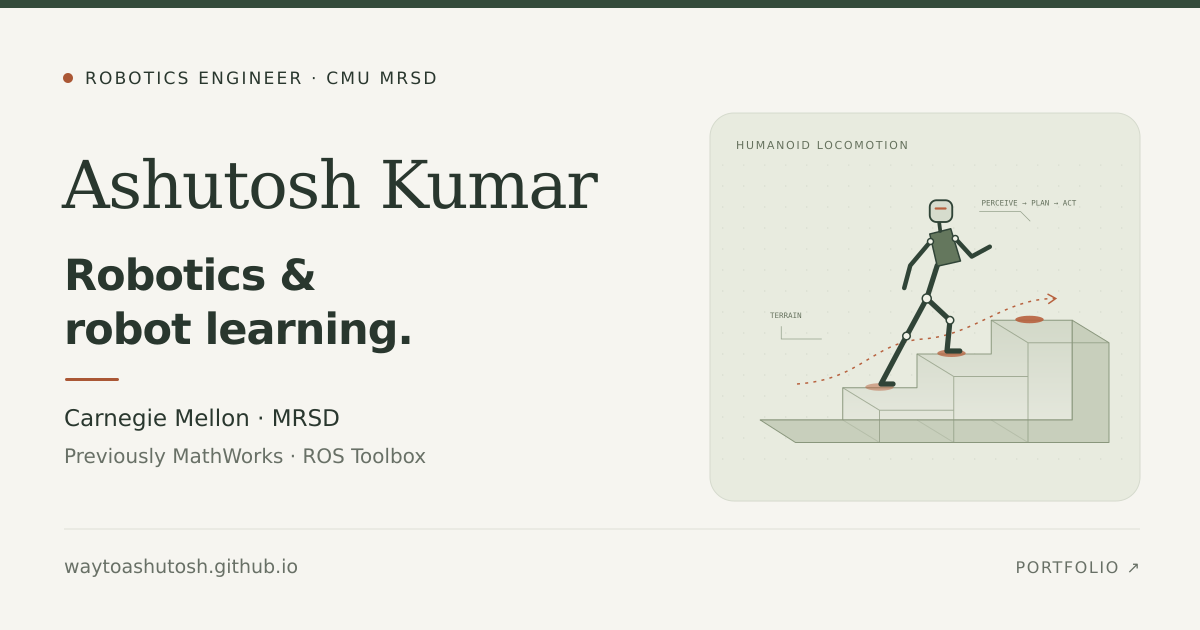
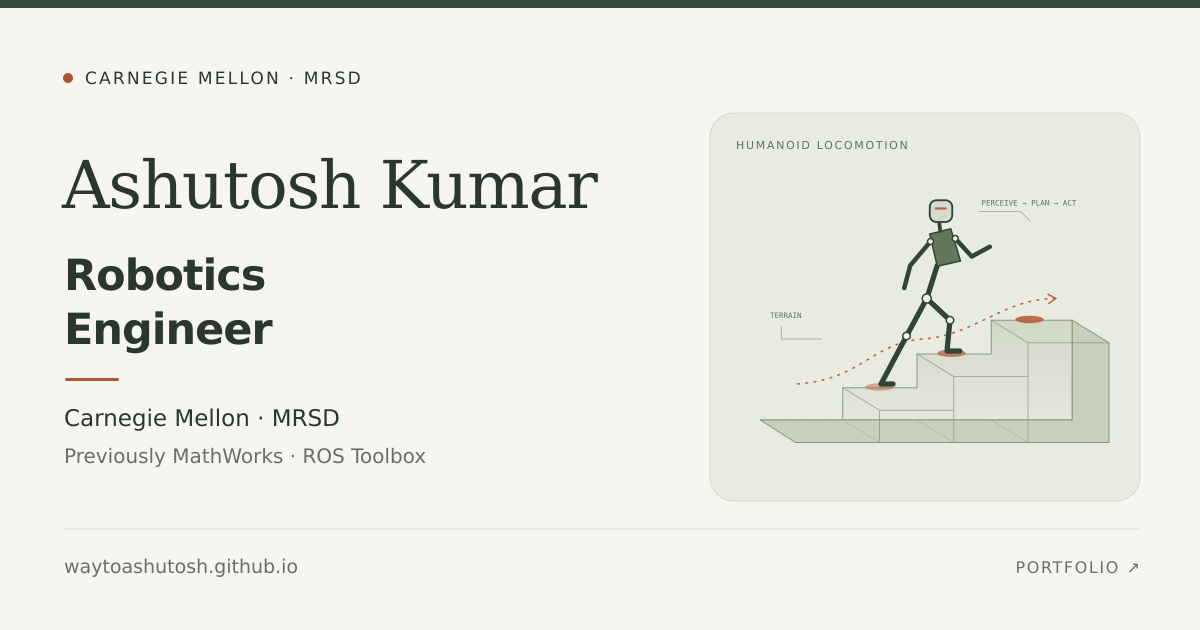
Use Robotics Engineer headline and matching sharing image

Changed region(s): [[0.0617, 0.4222, 0.3392, 0.573], [0.0617, 0.0905, 0.37, 0.1508]]

diff --git a/index.html b/index.html
@@ -5,24 +5,24 @@
   <meta name="viewport" content="width=device-width, initial-scale=1">
   <meta name="theme-color" content="#f6f5f0">
   <meta name="description" content="Ashutosh Kumar, robotics engineer and CMU MRSD student. Previously at MathWorks, working on ROS 2 tools and motion planning.">
-  <meta property="og:title" content="Ashutosh Kumar — Robotics & Robot Learning">
+  <meta property="og:title" content="Ashutosh Kumar — Robotics Engineer">
   <meta property="og:description" content="Robotics projects, public MathWorks contributions, and experience in ROS 2, robot learning, and motion planning.">
   <meta property="og:type" content="website">
   <meta property="og:url" content="https://waytoashutosh.github.io/">
   <meta property="og:site_name" content="Ashutosh Kumar — Portfolio">
-  <meta property="og:image" content="https://waytoashutosh.github.io/assets/social-preview.png?v=bbde8597d96b">
-  <meta property="og:image:secure_url" content="https://waytoashutosh.github.io/assets/social-preview.png?v=bbde8597d96b">
+  <meta property="og:image" content="https://waytoashutosh.github.io/assets/social-preview.png?v=fcdbb02fdbfe">
+  <meta property="og:image:secure_url" content="https://waytoashutosh.github.io/assets/social-preview.png?v=fcdbb02fdbfe">
   <meta property="og:image:type" content="image/png">
   <meta property="og:image:width" content="1200">
   <meta property="og:image:height" content="630">
-  <meta property="og:image:alt" content="Ashutosh Kumar — Robotics and Robot Learning. CMU MRSD; previously MathWorks. Humanoid staircase illustration.">
+  <meta property="og:image:alt" content="Ashutosh Kumar — Robotics Engineer. CMU MRSD; previously MathWorks. Humanoid staircase illustration.">
   <meta name="twitter:card" content="summary_large_image">
-  <meta name="twitter:title" content="Ashutosh Kumar — Robotics &amp; Robot Learning">
+  <meta name="twitter:title" content="Ashutosh Kumar — Robotics Engineer">
   <meta name="twitter:description" content="Robotics projects, public MathWorks contributions, and current work at Carnegie Mellon.">
-  <meta name="twitter:image" content="https://waytoashutosh.github.io/assets/social-preview.png?v=bbde8597d96b">
-  <meta name="twitter:image:alt" content="Ashutosh Kumar — Robotics and Robot Learning. CMU MRSD; previously MathWorks.">
+  <meta name="twitter:image" content="https://waytoashutosh.github.io/assets/social-preview.png?v=fcdbb02fdbfe">
+  <meta name="twitter:image:alt" content="Ashutosh Kumar — Robotics Engineer. CMU MRSD; previously MathWorks.">
   <link rel="canonical" href="https://waytoashutosh.github.io/">
-  <title>Ashutosh Kumar — Robotics & Robot Learning</title>
+  <title>Ashutosh Kumar — Robotics Engineer</title>
   <link rel="icon" type="image/svg+xml" href="./assets/favicon.svg">
   <link rel="stylesheet" href="./styles.css?v=98a8d2ebacd9">
   <link rel="stylesheet" href="./mathworks.css?v=127edc45bfd8">
@@ -41,8 +41,8 @@
   <main id="main">
     <section class="hero section-wrap" id="home" aria-labelledby="hero-title">
       <div class="hero-copy">
-        <p class="eyebrow"><span class="status-dot" aria-hidden="true"></span> ROBOTICS ENGINEER · CMU MRSD</p>
-        <h1 id="hero-title">Robotics &amp;<br><em>robot learning</em></h1>
+        <p class="eyebrow"><span class="status-dot" aria-hidden="true"></span> CARNEGIE MELLON · MRSD</p>
+        <h1 id="hero-title">Robotics<br><em>Engineer</em></h1>
         <p class="hero-description">I'm Ashutosh Kumar, a robotics engineer and MRSD student at Carnegie Mellon. I previously worked on ROS 2 tools and motion-planning software at MathWorks.</p>
         <div class="hero-actions"><a class="button button-dark" href="#mathworks">View work <span aria-hidden="true">↘</span></a><a class="text-link" href="https://github.com/waytoashutosh" target="_blank" rel="noopener noreferrer">GitHub <span aria-hidden="true">↗</span></a></div>
         <div class="hero-note"><span class="location-symbol" aria-hidden="true">⌖</span><span>Based in Pittsburgh, PA<br><span class="muted">Previously at MathWorks</span></span></div>

diff --git a/projects/reinforcement-learning.html b/projects/reinforcement-learning.html
@@ -9,8 +9,8 @@
   <meta property="og:description" content="Reward-driven control in a 2D driving simulator and a visual Doom environment, using PyTorch and deep Q-learning.">
   <meta property="og:type" content="website">
   <meta property="og:url" content="https://waytoashutosh.github.io/projects/reinforcement-learning.html">
-  <meta property="og:image" content="https://waytoashutosh.github.io/assets/social-preview.png?v=bbde8597d96b">
-  <meta property="og:image:alt" content="Ashutosh Kumar — Robotics and Robot Learning">
+  <meta property="og:image" content="https://waytoashutosh.github.io/assets/social-preview.png?v=fcdbb02fdbfe">
+  <meta property="og:image:alt" content="Ashutosh Kumar — Robotics Engineer">
   <link rel="canonical" href="https://waytoashutosh.github.io/projects/reinforcement-learning.html">
   <title>Deep Q-learning for driving and Doom — Ashutosh Kumar</title>
   <link rel="icon" type="image/svg+xml" href="../assets/favicon.svg">
